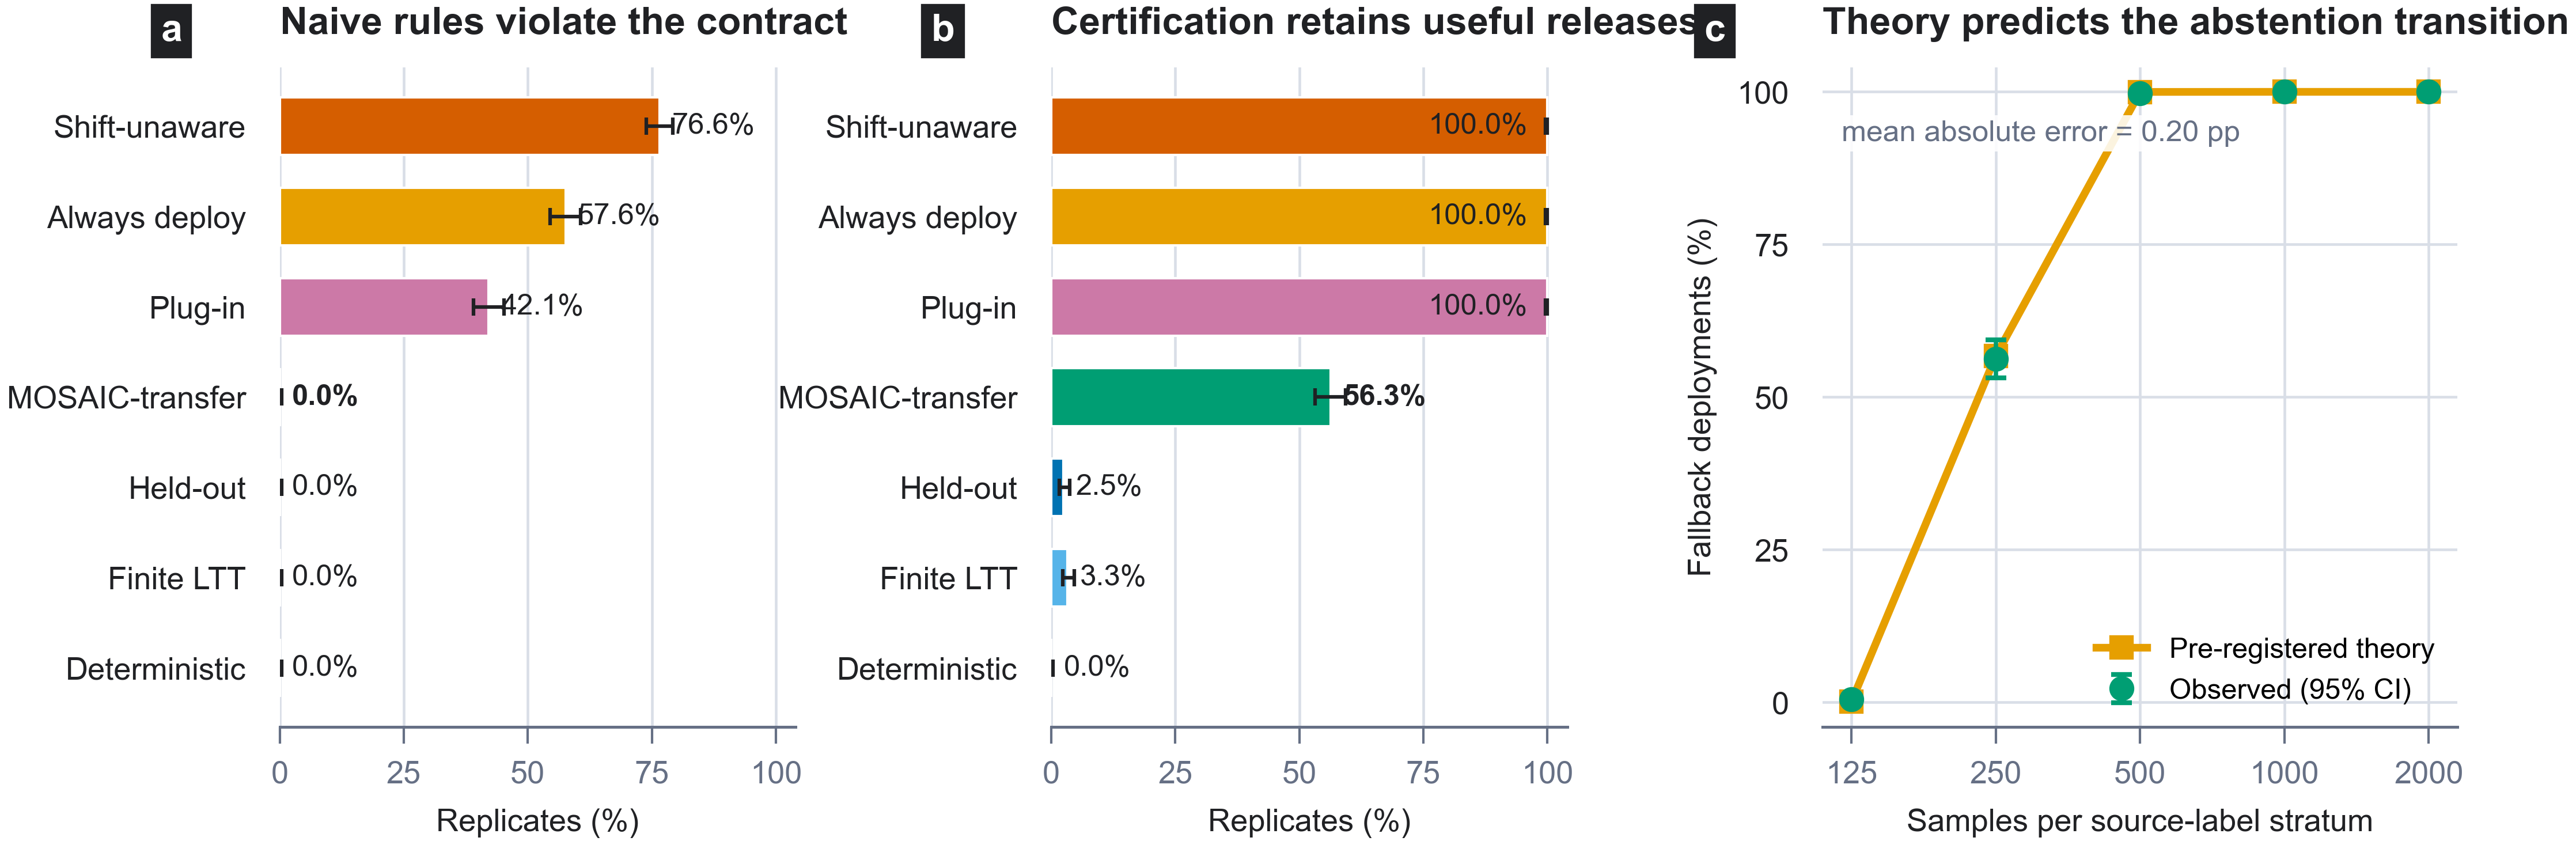
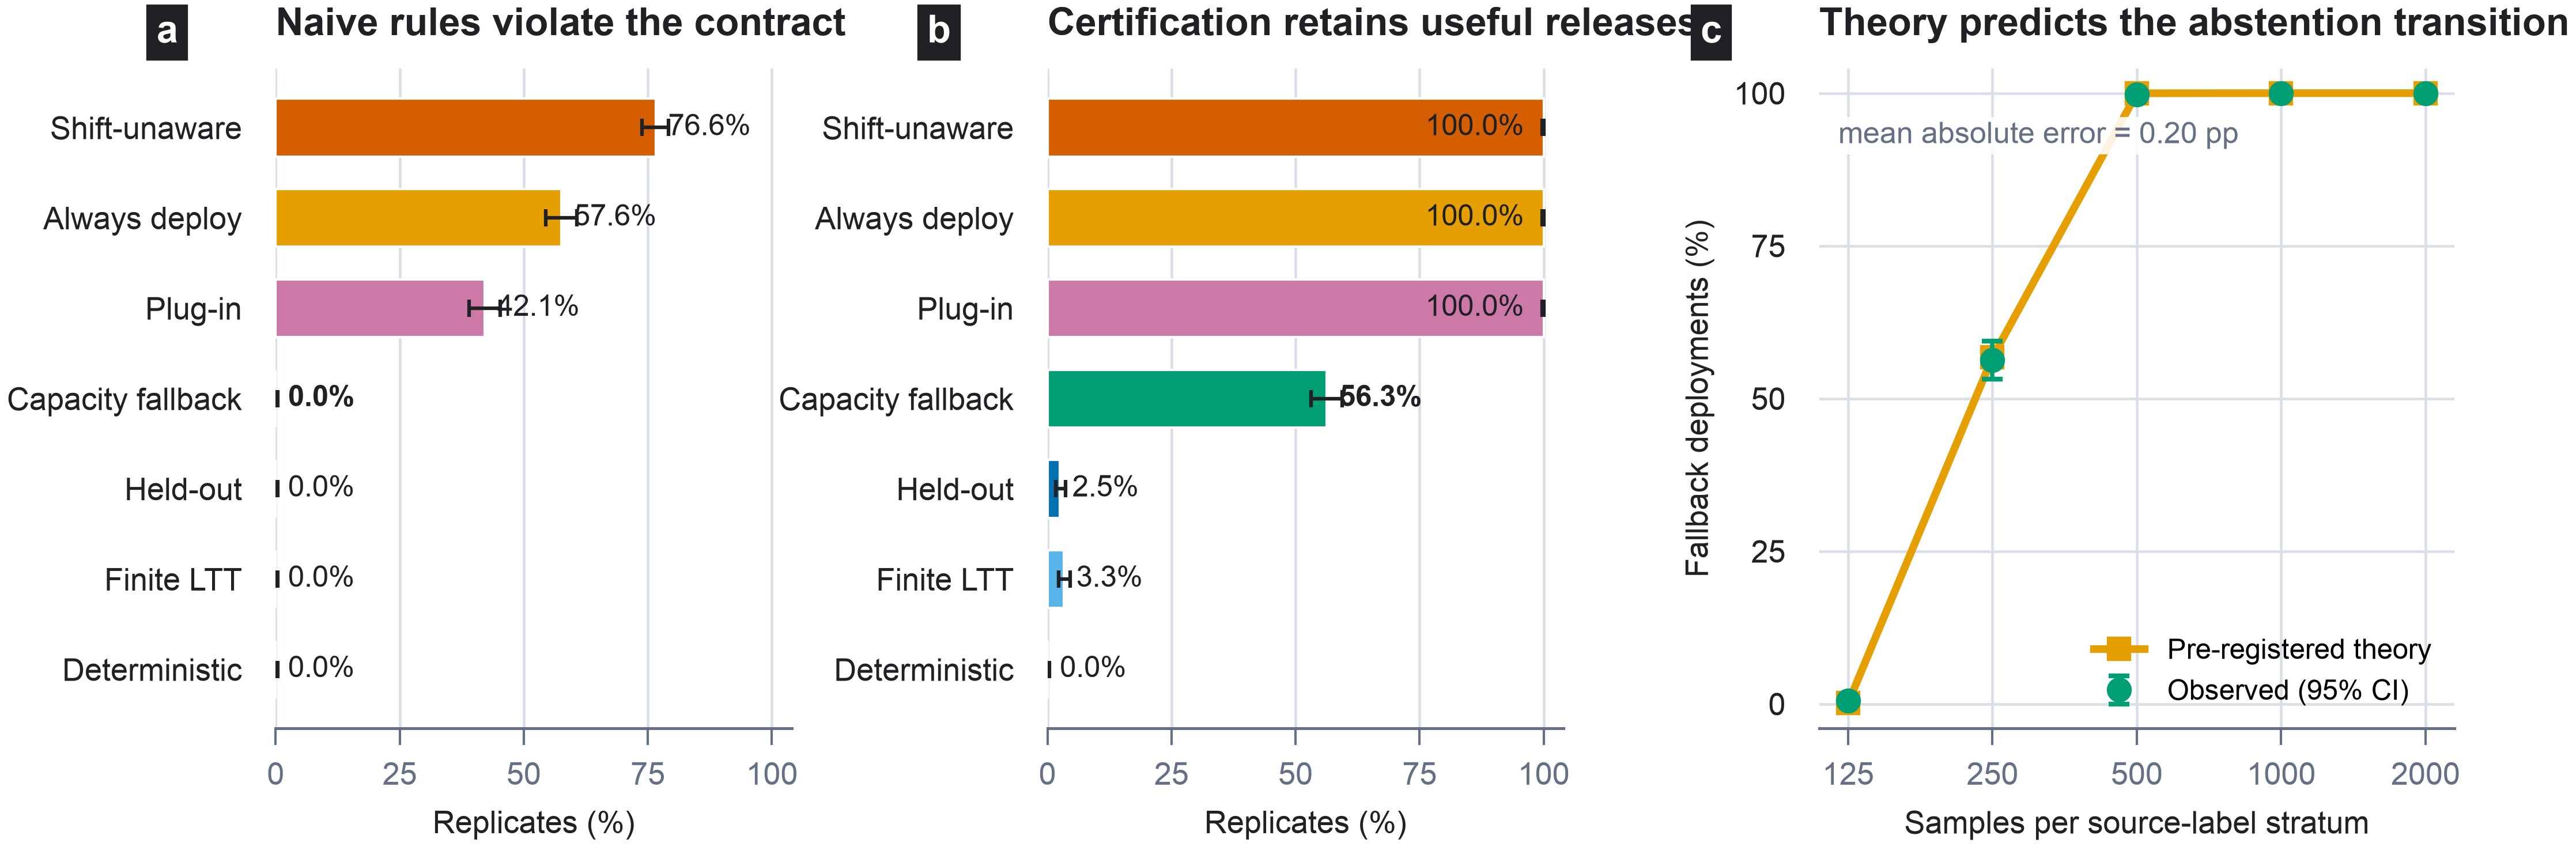
Polish MOSAIC v4 submission package

diff --git a/research/maintrack/mosaic_aaai2027/mosaic_results.tex b/research/maintrack/mosaic_aaai2027/mosaic_results.tex
@@ -1,7 +1,7 @@
 \section{Audited Results}
 
 The preregistered synthetic gates pass. Figure~\ref{fig:confirmation} reports every
-implementable rule in the primary cells; ``fallback'' is MOSAIC's generic
+implementable rule in the primary cells; ``capacity fallback'' is MOSAIC's generic
 capacity certificate. Independent replay recomputes all 64,000 method receipts,
 128,000 population risks, decisions, and aggregate intervals with zero
 mismatch.
@@ -13,7 +13,7 @@ mismatch.
   tables per cell.  Error bars are exact 95\% Clopper--Pearson intervals.
   (a) At the safety boundary, plug-in continuum selection falsely accepts
   42.1\% of tables; MOSAIC abstains with no false acceptance. Ignoring shift is
-  worse. (b) In the retention cell, the fallback safely deploys on 56.3\%,
+  worse. (b) In the retention cell, the capacity fallback safely deploys on 56.3\%,
   versus 2.5\% for held-out certification, 3.3\% for finite LTT, and 0\% for
   deterministic MOSAIC. (c) Deployment follows the preregistered theory curve
   with 0.20 percentage-point mean absolute error. Exact 95\%
@@ -23,8 +23,8 @@ mismatch.
 
 The paired safety difference is 42.1 points (95\% bootstrap interval
 $[39.0,45.2]$), with 421 plug-in-only violations and no reverse discordance.
-Across 8,000 fallback certification tables, no accepted release violates the
-exact population contract. In the retention cell, fallback safe deployment
+Across 8,000 capacity-fallback certification tables, no accepted release violates the
+exact population contract. In the retention cell, capacity-fallback safe deployment
 exceeds held-out, finite-LTT, and deterministic rates by 53.8, 53.0, and 56.3
 points. No deterministic channel is feasible. These finite-run facts support,
 but do not replace, the $1-\delta$ guarantee.
@@ -105,8 +105,11 @@ deployment populations. A descriptive dataset-resampling interval for the
 strict deployment rate is $[0,.60]$; leaving out BiasBios leaves zero strict
 deployments, whereas leaving out any other dataset leaves 20. Thus the job-level
 interval summarizes the registered trials only and does not support a
-cross-domain deployment-rate claim. Missing-support abstentions are required by
-the theorem, but they are not observed safety successes.
+cross-domain deployment-rate claim. Waterbirds makes the safety--retention tradeoff
+especially clear: its bridge plug-in releases 20/20 jobs with no observed diagnostic
+violations, while strict MOSAIC abstains because it cannot certify joint feasibility.
+That diagnostic cannot establish the formal contract. Missing-support abstentions are
+required by the theorem, but they are not observed safety successes.
 
 \paragraph{What the real ablations remove.}
 The primary rows form a diagnostic ladder rather than unrelated baselines.

diff --git a/research/maintrack/mosaic_aaai2027/mosaic_paper_body.tex b/research/maintrack/mosaic_aaai2027/mosaic_paper_body.tex
@@ -14,8 +14,9 @@ missing target source. In 1,000 hash-locked trials at a safety boundary, naive
 continuum selection deploys contract-violating releases on 42.1\% of tables;
 MOSAIC records none. Across 100 registered jobs on five real benchmarks, unconditional
 deployment violates 38/80 estimable external diagnostics; validation-only and
-bridge plug-ins violate 18/60 and 7/47. MOSAIC deploys 20 releases with 0/20
-observed violations and abstains on every missing-support job. Every decision
+bridge plug-ins violate 18/60 and 7/47. MOSAIC deploys 20 BiasBios releases with
+0/20 observed violations and abstains on the remaining four benchmarks under the
+primary contract. Every decision
 and population risk is retained for replay.
 \end{abstract}
 
@@ -45,8 +46,8 @@ the event precedes $M$, it covers every stochastic channel, including one
 optimized on the same table. A bridge LP uses labeled target data to learn a
 common transform and the largest certifiable retained mass; exact
 transform-and-contamination envelopes then certify source distinguishability
-and a jointly selected decoder. Finite-alphabet optimization is global, and no
-feasible release returns \textsc{abstain}.
+and a jointly selected decoder. Finite-alphabet optimization is global, and
+MOSAIC returns \textsc{abstain} when no feasible release exists.
 
 Randomized channels, confidence regions, contraction, and abstention are not
 individually new. The contribution is their shift-aware composition: an exact

diff --git a/research/maintrack/mosaic_aaai2027/make_mosaic_confirmation_figure.py b/research/maintrack/mosaic_aaai2027/make_mosaic_confirmation_figure.py
@@ -37,7 +37,7 @@ DISPLAY_NAMES = {
     "shift_unaware_mosaic": "Shift-unaware",
     "always_deploy_plugin": "Always deploy",
     "plugin_continuum": "Plug-in",
-    "mosaic": "MOSAIC-transfer",
+    "mosaic": "Capacity fallback",
     "heldout_fixed_channel": "Held-out",
     "finite_ltt": "Finite LTT",
     "deterministic_mosaic": "Deterministic",

diff --git a/research/maintrack/mosaic_aaai2027/mosaic_aaai2027_named.tex b/research/maintrack/mosaic_aaai2027/mosaic_aaai2027_named.tex
@@ -29,7 +29,7 @@
 \title{\MOSAICDisplayTitle}
 \author{Rudra Chopra}
 \affiliations{Independent Researcher\\Contra Costa County, California, USA\\
-Code and artifacts: \url{https://github.com/RudraChopra/mosaic-certified-release/tree/mosaic-aaai2027-v3}}
+Code and artifacts: \url{https://github.com/RudraChopra/mosaic-certified-release/tree/mosaic-aaai2027-v4}}
 
 \begin{document}
 \maketitle

diff --git a/research/maintrack/mosaic_aaai2027/mosaic_aaai2027_supplement_named.tex b/research/maintrack/mosaic_aaai2027/mosaic_aaai2027_supplement_named.tex
@@ -27,7 +27,7 @@
 \title{MOSAIC: Data-Certified Stochastic Release\\under Structured Deployment Shift\\Supplementary Material}
 \author{Rudra Chopra}
 \affiliations{Independent Researcher\\Contra Costa County, California, USA\\
-Code and artifacts: \url{https://github.com/RudraChopra/mosaic-certified-release/tree/mosaic-aaai2027-v3}}
+Code and artifacts: \url{https://github.com/RudraChopra/mosaic-certified-release/tree/mosaic-aaai2027-v4}}
 
 \begin{document}
 \maketitle